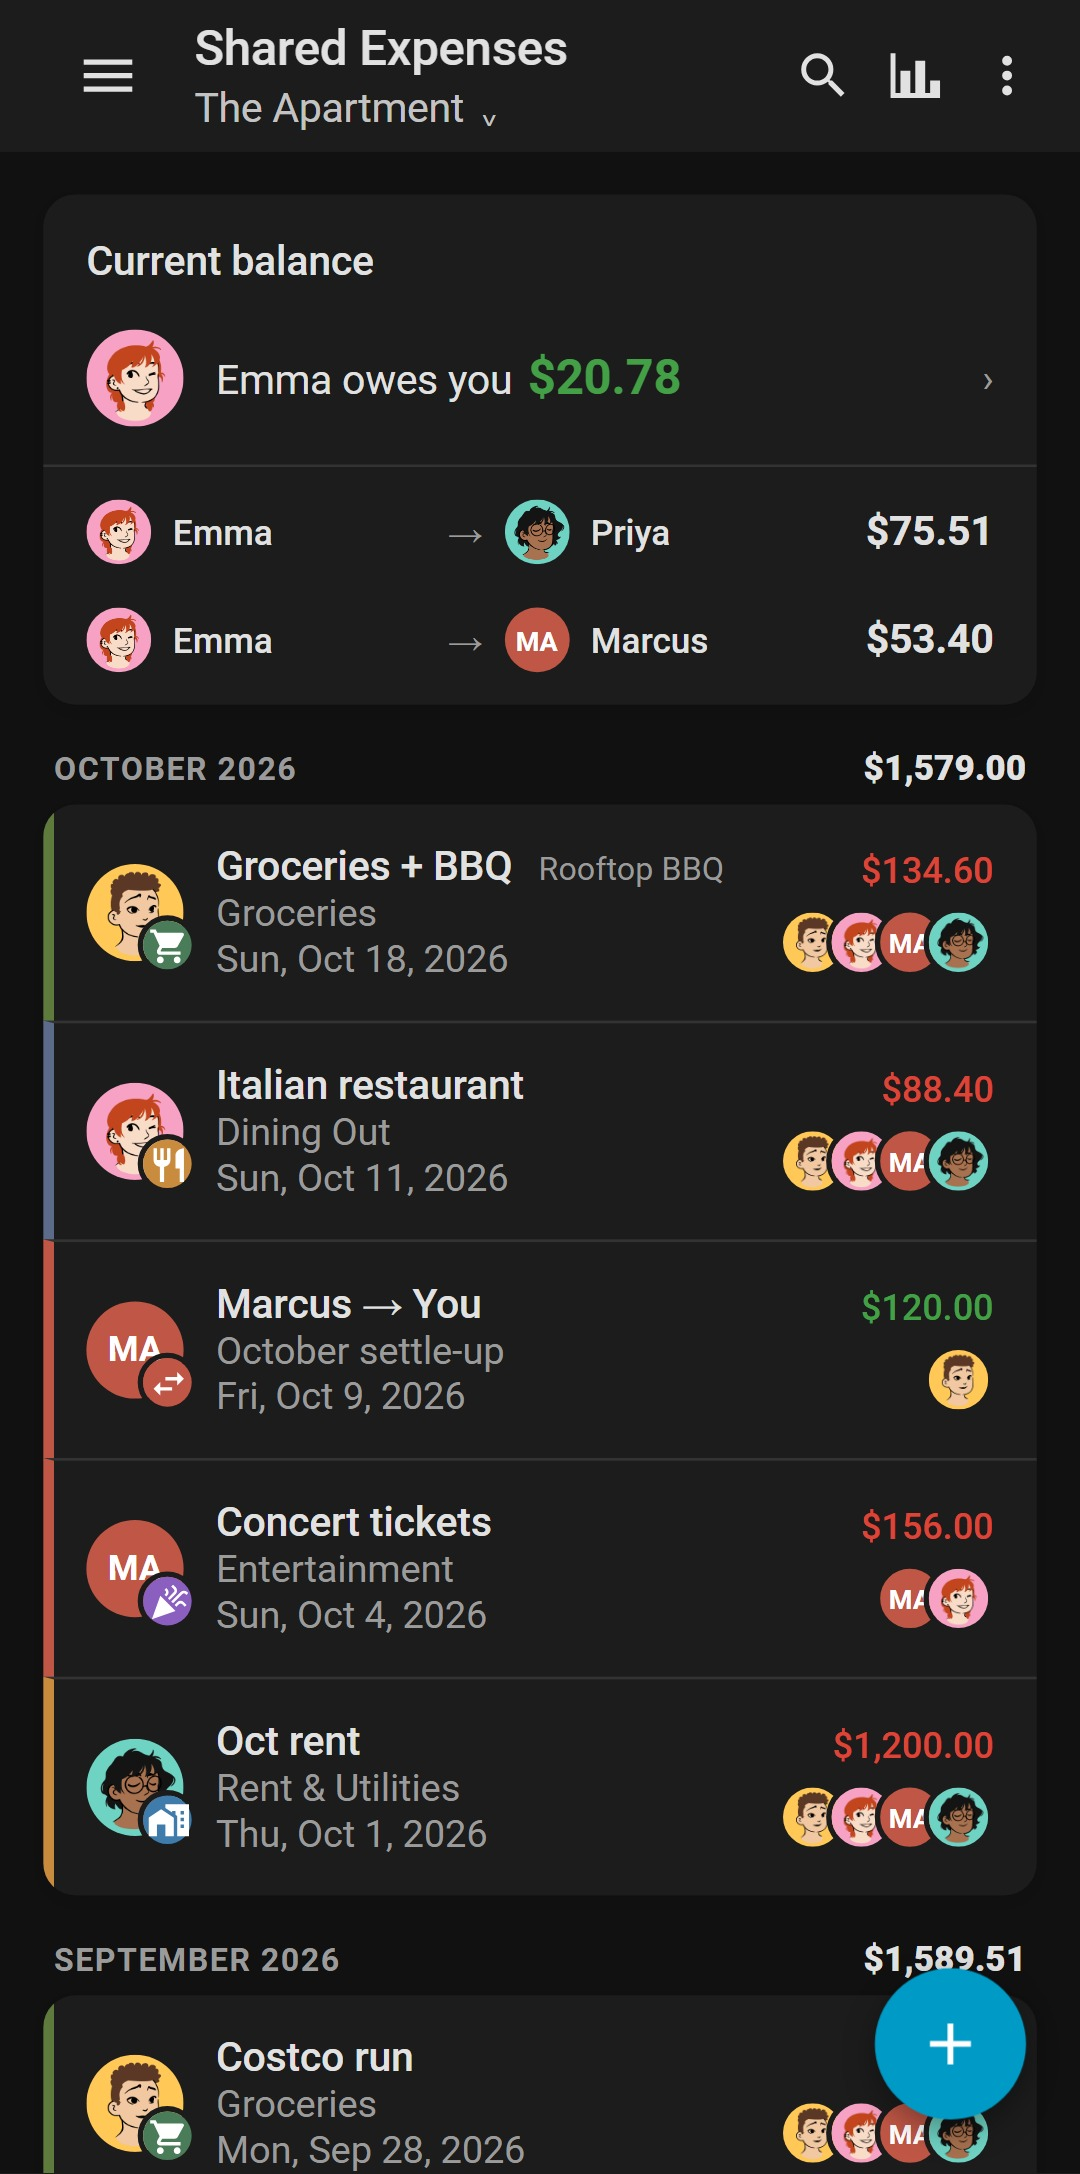
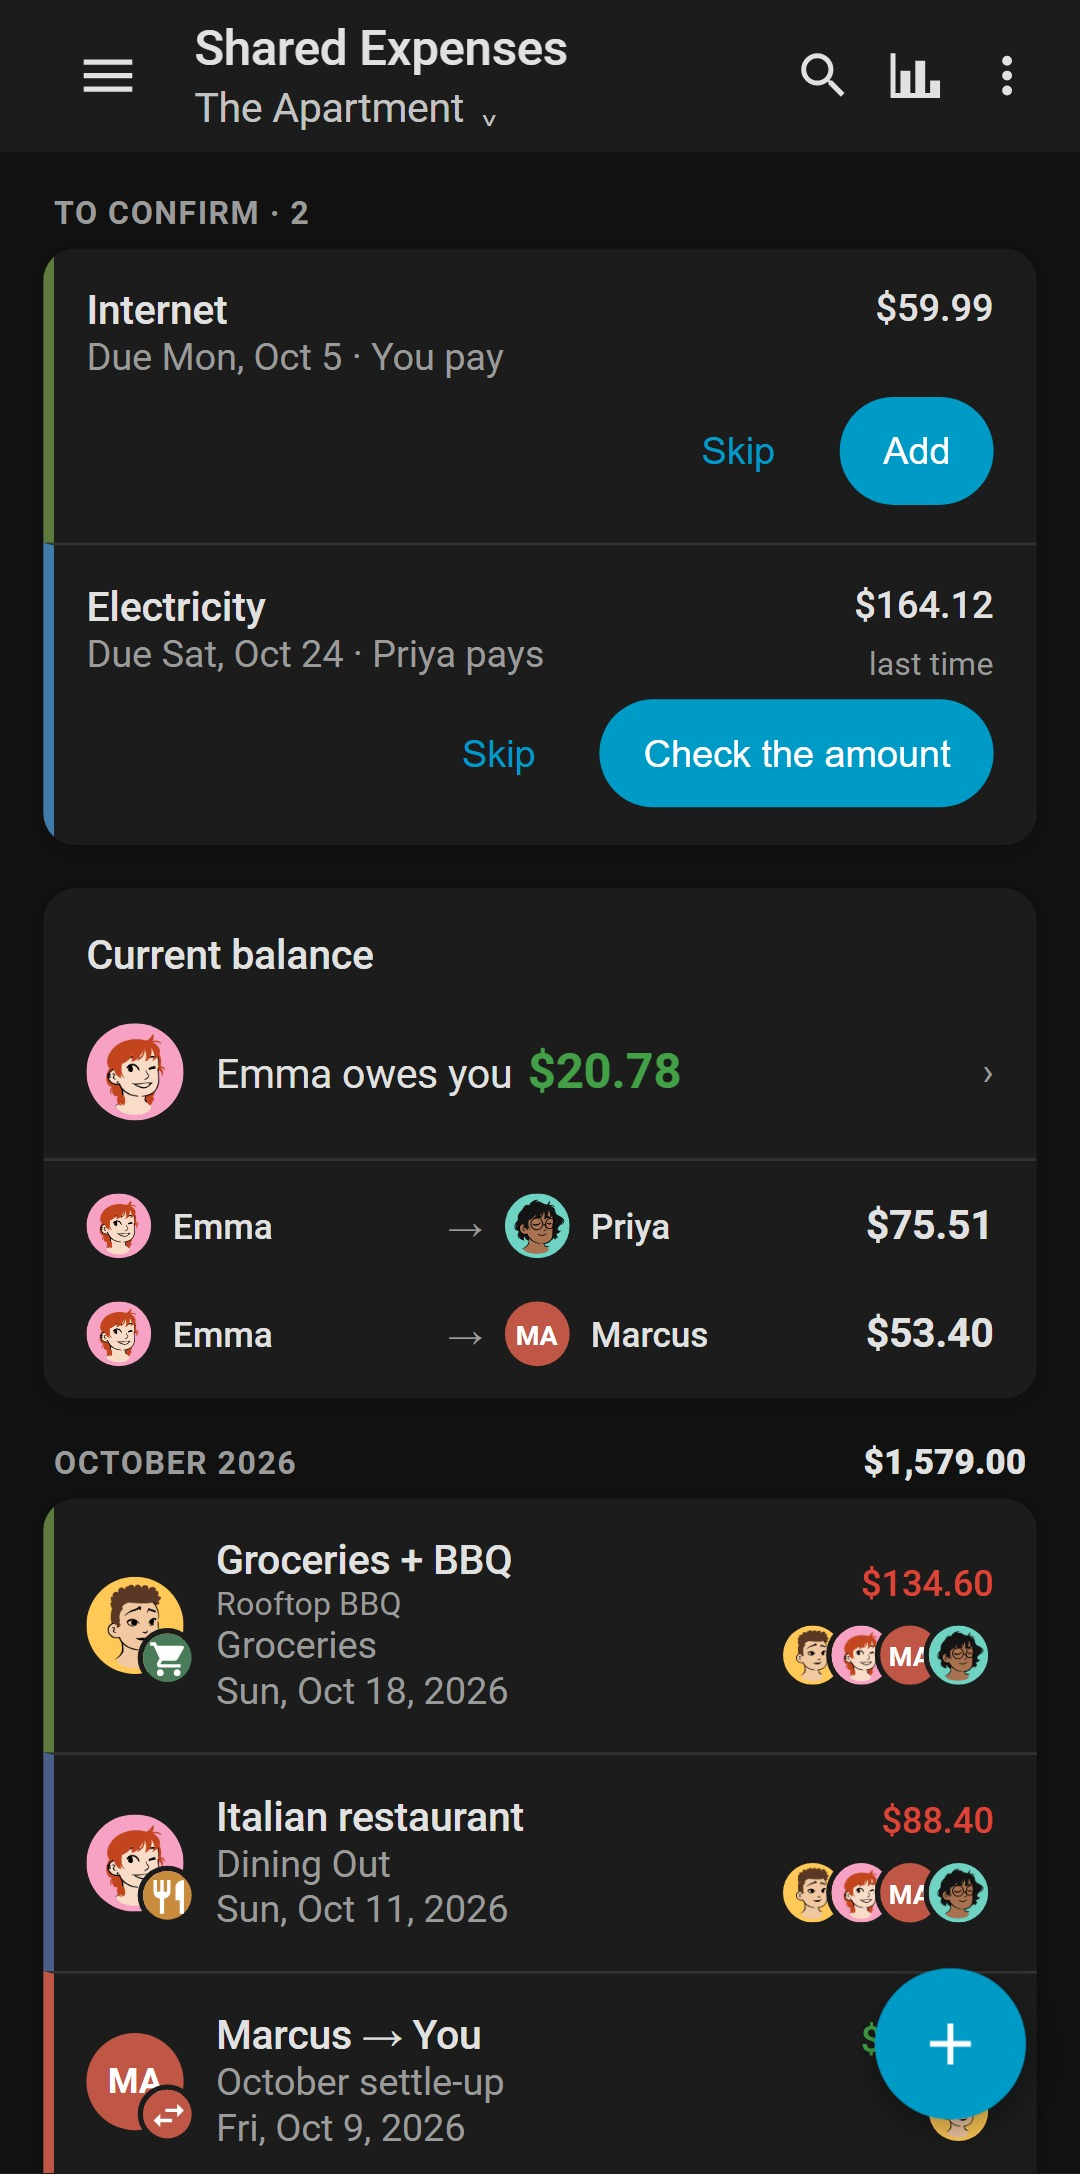
docs: the README shows what comes back, and the panel after its pass
The pictures were taken before recurring expenses existed. The demo now
sets up the rent, the internet and the electricity as the panel would,
with the same amounts, dates and payers, so every balance and statistic
stays what it was: the group page opens on "To confirm", Internet waiting
since the 5th and Electricity asking for its amount to be checked, since
last bill came to more than it proposes.

02 to 05 and 07 are retaken on a re-seeded Home Assistant, which also
brings in the consistency pass: a row's description on its own line, one
size of checkbox, "Pay someone back" titled as the plus calls it. 01 and
06 came out byte for byte the same. The three phones at the top are
rebuilt from the new shots, and the tour recorded again; its taxi cut now
joins the London list to itself, both ends pixel-identical.

diff --git a/README.md b/README.md
@@ -51,7 +51,7 @@ directory, restart Home Assistant, then add the integration as in step 2.
 
 <p align="center">
   <img src="https://raw.githubusercontent.com/Kami-fr/shared_expenses/main/docs/screenshots/01-groups.jpg" width="176" alt="Your groups, one tap in" title="Your groups, one tap in">&nbsp;
-  <img src="https://raw.githubusercontent.com/Kami-fr/shared_expenses/main/docs/screenshots/02-balances.jpg" width="176" alt="Who owes what, from where you stand" title="Who owes what, from where you stand">&nbsp;
+  <img src="https://raw.githubusercontent.com/Kami-fr/shared_expenses/main/docs/screenshots/02-balances.jpg" width="176" alt="What is due to confirm, and who owes what from where you stand" title="What is due to confirm, and who owes what from where you stand">&nbsp;
   <img src="https://raw.githubusercontent.com/Kami-fr/shared_expenses/main/docs/screenshots/03-trip-currency.jpg" width="176" alt="Two of you, in a currency the group doesn't count in" title="Two of you, in a currency the group doesn't count in">&nbsp;
   <img src="https://raw.githubusercontent.com/Kami-fr/shared_expenses/main/docs/screenshots/04-split-part.jpg" width="176" alt="Share part of it, the rest to whoever paid" title="Share part of it, the rest to whoever paid">
 </p>
